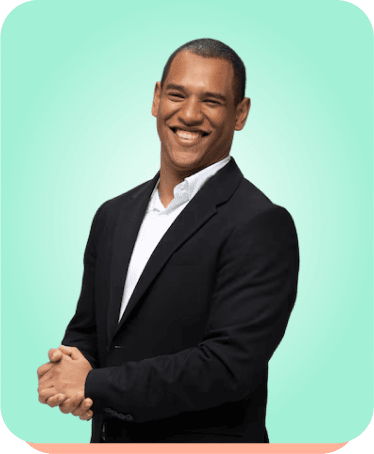
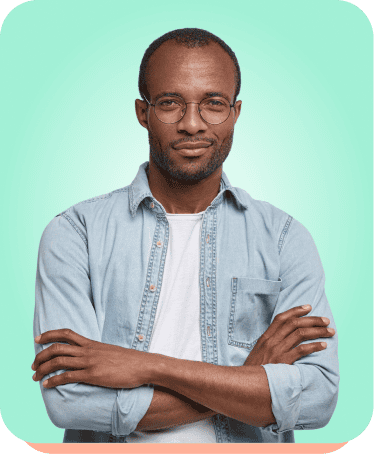
update mentor and team members images

diff --git a/components/meet-the-team.tsx b/components/meet-the-team.tsx
@@ -30,19 +30,19 @@ export default function AboutTeamSection() {
     {
       name: "Henry Ozomgbachi",
       title: "Engineering Lead",
-      image: "/images/schools.png",
+      image: "/images/henry.png",
       bgColor: "#FF9BC9",
     },
     {
       name: "Victor Onwuelu",
       title: "Product Design",
-      image: "/images/mentees.png",
+      image: "/images/victor.png",
       bgColor: "#DAACFF",
     },
     {
       name: "Esther Ebokpo",
       title: "Social Media",
-      image: "/images/mentor.png",
+      image: "/images/esther.png",
       bgColor: "#A2F0D6",
     },
     {
